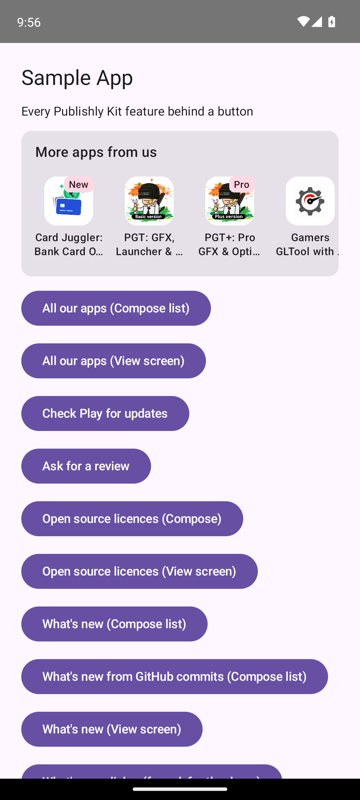
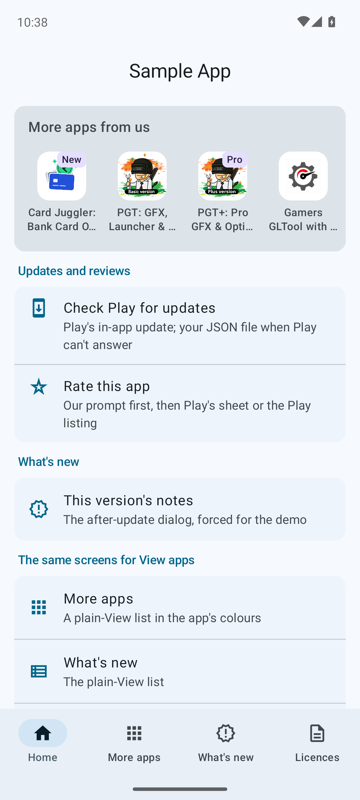
Sample app: Material You with dynamic colour, bottom navigation and grouped rows

diff --git a/sample/src/main/java/inc/trilokia/publishly/kit/sample/MainActivity.kt b/sample/src/main/java/inc/trilokia/publishly/kit/sample/MainActivity.kt
@@ -5,34 +5,61 @@ import android.widget.Toast
 import androidx.activity.ComponentActivity
 import androidx.activity.compose.BackHandler
 import androidx.activity.compose.setContent
-import androidx.compose.foundation.isSystemInDarkTheme
+import androidx.activity.enableEdgeToEdge
+import androidx.compose.foundation.clickable
 import androidx.compose.foundation.layout.Arrangement
 import androidx.compose.foundation.layout.Column
+import androidx.compose.foundation.layout.PaddingValues
 import androidx.compose.foundation.layout.fillMaxSize
 import androidx.compose.foundation.layout.fillMaxWidth
 import androidx.compose.foundation.layout.padding
-import androidx.compose.foundation.rememberScrollState
-import androidx.compose.foundation.verticalScroll
-import androidx.compose.material3.Button
-import androidx.compose.material3.darkColorScheme
-import androidx.compose.material3.lightColorScheme
+import androidx.compose.foundation.lazy.LazyColumn
+import androidx.compose.material.icons.Icons
+import androidx.compose.material.icons.filled.Apps
+import androidx.compose.material.icons.filled.Description
+import androidx.compose.material.icons.filled.Home
+import androidx.compose.material.icons.filled.NewReleases
+import androidx.compose.material.icons.outlined.Apps
+import androidx.compose.material.icons.outlined.Description
+import androidx.compose.material.icons.outlined.Home
+import androidx.compose.material.icons.outlined.NewReleases
+import androidx.compose.material.icons.outlined.StarRate
+import androidx.compose.material.icons.outlined.SystemUpdate
+import androidx.compose.material.icons.automirrored.outlined.ViewList
+import androidx.compose.material3.Card
+import androidx.compose.material3.CardDefaults
+import androidx.compose.material3.CenterAlignedTopAppBar
+import androidx.compose.material3.ExperimentalMaterial3Api
+import androidx.compose.material3.HorizontalDivider
+import androidx.compose.material3.Icon
+import androidx.compose.material3.ListItem
+import androidx.compose.material3.ListItemDefaults
 import androidx.compose.material3.MaterialTheme
+import androidx.compose.material3.NavigationBar
+import androidx.compose.material3.NavigationBarItem
 import androidx.compose.material3.Scaffold
+import androidx.compose.material3.SegmentedButton
+import androidx.compose.material3.SegmentedButtonDefaults
+import androidx.compose.material3.SingleChoiceSegmentedButtonRow
 import androidx.compose.material3.Text
+import androidx.compose.material3.TopAppBarDefaults
 import androidx.compose.runtime.Composable
 import androidx.compose.runtime.getValue
+import androidx.compose.runtime.mutableIntStateOf
 import androidx.compose.runtime.mutableStateOf
-import androidx.compose.runtime.rememberCoroutineScope
 import androidx.compose.runtime.remember
+import androidx.compose.runtime.rememberCoroutineScope
+import androidx.compose.runtime.saveable.rememberSaveable
 import androidx.compose.runtime.setValue
 import androidx.compose.ui.Modifier
+import androidx.compose.ui.graphics.Color
+import androidx.compose.ui.graphics.vector.ImageVector
 import androidx.compose.ui.unit.dp
 import inc.trilokia.publishly.kit.compose.FeaturedPromoDialog
 import inc.trilokia.publishly.kit.compose.MoreAppsList
 import inc.trilokia.publishly.kit.compose.MoreAppsRow
 import inc.trilokia.publishly.kit.compose.OpenSourceScreen
 import inc.trilokia.publishly.kit.compose.ReviewPromptDialog
-import inc.trilokia.publishly.kit.compose.SyncKitTheme
 import inc.trilokia.publishly.kit.compose.UpdateFlow
 import inc.trilokia.publishly.kit.compose.UpdateReadyBar
 import inc.trilokia.publishly.kit.compose.WhatsNewDialog
@@ -45,13 +72,24 @@ import inc.trilokia.publishly.kit.whatsnew.WhatsNew
 import inc.trilokia.publishly.kit.whatsnew.WhatsNewSource
 import kotlinx.coroutines.launch
 
-/** Every feature of the library on one screen. */
+/**
+ * Every feature of the library in one Material You app, laid out the Now in Android way: a top
+ * app bar, bottom navigation between Home, More apps, What's new and Licences, and grouped list
+ * rows on Home for the actions.
+ */
 class MainActivity : ComponentActivity() {
     private lateinit var updates: Updates
 
-    private enum class Page { HOME, LICENCES, MORE_APPS, WHATS_NEW_PLAY, WHATS_NEW_GITHUB }
+    private enum class Tab(val label: String, val icon: ImageVector, val selectedIcon: ImageVector) {
+        HOME("Home", Icons.Outlined.Home, Icons.Filled.Home),
+        APPS("More apps", Icons.Outlined.Apps, Icons.Filled.Apps),
+        NEWS("What's new", Icons.Outlined.NewReleases, Icons.Filled.NewReleases),
+        LICENCES("Licences", Icons.Outlined.Description, Icons.Filled.Description),
+    }
 
+    @OptIn(ExperimentalMaterial3Api::class)
     override fun onCreate(savedInstanceState: Bundle?) {
+        enableEdgeToEdge()
         super.onCreate(savedInstanceState)
 
         // The whole update flow: Play first, the JSON file when Play can't answer. Built here because
@@ -68,18 +106,16 @@ class MainActivity : ComponentActivity() {
             url = "https://www.trilokiainc.com/apps.json",
             bundledJson = asset("apps.json"),
         )
-
         // "What's new": sample release notes shipped in assets/ (a real app uses WhatsNewSource.Play(packageName)
         // or a JSON file on its server), plus a public GitHub repo's commits to show that source
         val whatsNew = WhatsNew(this, WhatsNewSource.Bundled(asset("release-notes.json")))
         val whatsNewGitHub = WhatsNew(this, WhatsNewSource.GitHubCommits("mikepenz", "AboutLibraries"))
 
         setContent {
-            MaterialTheme(colorScheme = if (isSystemInDarkTheme()) darkColorScheme() else lightColorScheme()) {
-                // The View screens and dialogs take this MaterialTheme's colours, light or dark
-                SyncKitTheme()
-                var page by remember { mutableStateOf(Page.HOME) }
-                BackHandler(enabled = page != Page.HOME) { page = Page.HOME }
+            SampleTheme {
+                var tab by rememberSaveable { mutableStateOf(Tab.HOME) }
+                BackHandler(enabled = tab != Tab.HOME) { tab = Tab.HOME }
+                val scope = rememberCoroutineScope()
 
                 // Dialogs take turns: the update flow first, then the featured app
                 var updatesSettled by remember { mutableStateOf(false) }
@@ -91,31 +127,46 @@ class MainActivity : ComponentActivity() {
                 ReviewPromptDialog(reviewAsk)
 
                 Scaffold(
-                    bottomBar = { UpdateReadyBar(updates) },
+                    topBar = {
+                        CenterAlignedTopAppBar(
+                            title = { Text(if (tab == Tab.HOME) "Sample App" else tab.label) },
+                            colors = TopAppBarDefaults.topAppBarColors(containerColor = Color.Transparent),
+                        )
+                    },
+                    bottomBar = {
+                        Column {
+                            UpdateReadyBar(updates)
+                            NavigationBar {
+                                Tab.entries.forEach { t ->
+                                    NavigationBarItem(
+                                        selected = tab == t,
+                                        onClick = { tab = t },
+                                        icon = { Icon(if (tab == t) t.selectedIcon else t.icon, contentDescription = null) },
+                                        label = { Text(t.label) },
+                                    )
+                                }
+                            }
+                        }
+                    },
                 ) { padding ->
-                    when (page) {
-                        Page.LICENCES -> OpenSourceScreen(Modifier.padding(padding))
-                        Page.MORE_APPS -> MoreAppsList(promos, Modifier.padding(padding))
-                        Page.WHATS_NEW_PLAY -> WhatsNewList(whatsNew, Modifier.padding(padding))
-                        Page.WHATS_NEW_GITHUB -> WhatsNewList(whatsNewGitHub, Modifier.padding(padding))
-                        Page.HOME -> Demo(
-                            modifier = Modifier.padding(padding),
+                    when (tab) {
+                        Tab.HOME -> HomeScreen(
+                            padding = padding,
                             promos = promos,
-                            onMoreAppsCompose = { page = Page.MORE_APPS },
-                            onMoreAppsView = { promos.openList(this@MainActivity) },
-                            onLicencesCompose = { page = Page.LICENCES },
-                            onLicencesView = { OpenSource.open(this@MainActivity) },
-                            onWhatsNewPlay = { page = Page.WHATS_NEW_PLAY },
-                            onWhatsNewGitHub = { page = Page.WHATS_NEW_GITHUB },
-                            onWhatsNewView = { whatsNew.openList(this@MainActivity) },
-                            // Forced for the demo: this version's notes (after a real update, pending() picks them)
-                            onWhatsNewDialog = { whatsNew.showDialog(this@MainActivity, whatsNew.notes().take(1)) },
                             onCheckUpdate = { updates.play.checkNow { toast("Play update: $it") } },
                             onReview = {
                                 reviewAsk.recordEvent()
                                 reviewAsk.requestIfDue()
                             },
+                            // Forced for the demo: this version's notes (after a real update, pending() picks them)
+                            onWhatsNewDialog = { scope.launch { whatsNew.showDialog(this@MainActivity, whatsNew.notes().take(1)) } },
+                            onMoreAppsView = { promos.openList(this@MainActivity) },
+                            onWhatsNewView = { whatsNew.openList(this@MainActivity) },
+                            onLicencesView = { OpenSource.open(this@MainActivity) },
                         )
+                        Tab.APPS -> MoreAppsList(promos, Modifier.padding(padding))
+                        Tab.NEWS -> WhatsNewScreen(padding, whatsNew, whatsNewGitHub)
+                        Tab.LICENCES -> OpenSourceScreen(Modifier.padding(padding))
                     }
                 }
             }
@@ -128,38 +179,93 @@ class MainActivity : ComponentActivity() {
 }
 
 @Composable
-private fun Demo(
-    modifier: Modifier,
+private fun HomeScreen(
+    padding: PaddingValues,
     promos: AppPromos,
-    onMoreAppsCompose: () -> Unit,
-    onMoreAppsView: () -> Unit,
-    onLicencesCompose: () -> Unit,
-    onLicencesView: () -> Unit,
-    onWhatsNewPlay: () -> Unit,
-    onWhatsNewGitHub: () -> Unit,
-    onWhatsNewView: () -> Unit,
-    onWhatsNewDialog: suspend () -> Unit,
     onCheckUpdate: () -> Unit,
     onReview: () -> Unit,
+    onWhatsNewDialog: () -> Unit,
+    onMoreAppsView: () -> Unit,
+    onWhatsNewView: () -> Unit,
+    onLicencesView: () -> Unit,
 ) {
-    val scope = rememberCoroutineScope()
-    Column(
-        modifier = modifier.fillMaxSize().verticalScroll(rememberScrollState()).padding(24.dp),
+    LazyColumn(
+        modifier = Modifier.fillMaxSize(),
+        contentPadding = PaddingValues(
+            start = 16.dp, end = 16.dp,
+            top = padding.calculateTopPadding() + 8.dp,
+            bottom = padding.calculateBottomPadding() + 16.dp,
+        ),
         verticalArrangement = Arrangement.spacedBy(12.dp),
     ) {
-        Text("Sample App", style = MaterialTheme.typography.headlineSmall)
-        Text("Every Publishly Kit feature behind a button", style = MaterialTheme.typography.bodyMedium)
         // The own-apps row: from the JSON feed, minus whatever this phone already has
-        MoreAppsRow(promos, Modifier.fillMaxWidth())
-        Button(onClick = onMoreAppsCompose) { Text("All our apps (Compose list)") }
-        Button(onClick = onMoreAppsView) { Text("All our apps (View screen)") }
-        Button(onClick = onCheckUpdate) { Text("Check Play for updates") }
-        Button(onClick = onReview) { Text("Ask for a review") }
-        Button(onClick = onLicencesCompose) { Text("Open source licences (Compose)") }
-        Button(onClick = onLicencesView) { Text("Open source licences (View screen)") }
-        Button(onClick = onWhatsNewPlay) { Text("What's new (Compose list)") }
-        Button(onClick = onWhatsNewGitHub) { Text("What's new from GitHub commits (Compose list)") }
-        Button(onClick = onWhatsNewView) { Text("What's new (View screen)") }
-        Button(onClick = { scope.launch { onWhatsNewDialog() } }) { Text("What's new dialog (forced, for the demo)") }
+        item { MoreAppsRow(promos, Modifier.fillMaxWidth()) }
+        item {
+            Section("Updates and reviews") {
+                ActionRow(Icons.Outlined.SystemUpdate, "Check Play for updates", "Play's in-app update; your JSON file when Play can't answer", onCheckUpdate)
+                HorizontalDivider()
+                ActionRow(Icons.Outlined.StarRate, "Rate this app", "Our prompt first, then Play's sheet or the Play listing", onReview)
+            }
+        }
+        item {
+            Section("What's new") {
+                ActionRow(Icons.Outlined.NewReleases, "This version's notes", "The after-update dialog, forced for the demo", onWhatsNewDialog)
+            }
+        }
+        item {
+            Section("The same screens for View apps") {
+                ActionRow(Icons.Outlined.Apps, "More apps", "A plain-View list in the app's colours", onMoreAppsView)
+                HorizontalDivider()
+                ActionRow(Icons.AutoMirrored.Outlined.ViewList, "What's new", "The plain-View list", onWhatsNewView)
+                HorizontalDivider()
+                ActionRow(Icons.Outlined.Description, "Open source licences", "The plain-View list", onLicencesView)
+            }
+        }
+    }
+}
+
+/** A titled group of rows on one tonal card, the way settings screens group their items. */
+@Composable
+private fun Section(title: String, rows: @Composable () -> Unit) {
+    Column(verticalArrangement = Arrangement.spacedBy(8.dp)) {
+        Text(
+            title,
+            style = MaterialTheme.typography.titleSmall,
+            color = MaterialTheme.colorScheme.primary,
+            modifier = Modifier.padding(start = 4.dp),
+        )
+        Card(colors = CardDefaults.cardColors(containerColor = MaterialTheme.colorScheme.surfaceContainerLow)) {
+            rows()
+        }
+    }
+}
+
+@Composable
+private fun ActionRow(icon: ImageVector, title: String, detail: String, onClick: () -> Unit) {
+    ListItem(
+        modifier = Modifier.clickable(onClick = onClick),
+        leadingContent = { Icon(icon, contentDescription = null, tint = MaterialTheme.colorScheme.primary) },
+        headlineContent = { Text(title) },
+        supportingContent = { Text(detail) },
+        colors = ListItemDefaults.colors(containerColor = Color.Transparent),
+    )
+}
+
+/** The What's new tab: this app's own notes, or a GitHub repo's commits to show that source. */
+@OptIn(ExperimentalMaterial3Api::class)
+@Composable
+private fun WhatsNewScreen(padding: PaddingValues, own: WhatsNew, gitHub: WhatsNew) {
+    var source by rememberSaveable { mutableIntStateOf(0) }
+    Column(Modifier.padding(padding)) {
+        SingleChoiceSegmentedButtonRow(Modifier.fillMaxWidth().padding(horizontal = 16.dp, vertical = 8.dp)) {
+            listOf("This app", "GitHub commits").forEachIndexed { i, label ->
+                SegmentedButton(
+                    selected = source == i,
+                    onClick = { source = i },
+                    shape = SegmentedButtonDefaults.itemShape(index = i, count = 2),
+                ) { Text(label) }
+            }
+        }
+        WhatsNewList(if (source == 0) own else gitHub, Modifier.fillMaxSize())
     }
 }

diff --git a/sample/src/main/java/inc/trilokia/publishly/kit/sample/SampleTheme.kt b/sample/src/main/java/inc/trilokia/publishly/kit/sample/SampleTheme.kt
@@ -1,0 +1,73 @@
+package inc.trilokia.publishly.kit.sample
+
+import android.os.Build
+import androidx.compose.foundation.isSystemInDarkTheme
+import androidx.compose.material3.MaterialTheme
+import androidx.compose.material3.darkColorScheme
+import androidx.compose.material3.dynamicDarkColorScheme
+import androidx.compose.material3.dynamicLightColorScheme
+import androidx.compose.material3.lightColorScheme
+import androidx.compose.runtime.Composable
+import androidx.compose.ui.graphics.Color
+import androidx.compose.ui.platform.LocalContext
+import inc.trilokia.publishly.kit.compose.SyncKitTheme
+
+/**
+ * Material You, the way Now in Android does it: the wallpaper's colours (dynamic colour) on
+ * Android 12 and up, a branded scheme on older phones, light and dark. Everything Publishly Kit
+ * draws follows it: the Compose elements through MaterialTheme, the plain-View screens and
+ * dialogs through [SyncKitTheme].
+ */
+@Composable
+fun SampleTheme(darkTheme: Boolean = isSystemInDarkTheme(), content: @Composable () -> Unit) {
+    val context = LocalContext.current
+    val colorScheme = when {
+        Build.VERSION.SDK_INT >= Build.VERSION_CODES.S ->
+            if (darkTheme) dynamicDarkColorScheme(context) else dynamicLightColorScheme(context)
+        darkTheme -> DarkColors
+        else -> LightColors
+    }
+    MaterialTheme(colorScheme = colorScheme) {
+        SyncKitTheme()
+        content()
+    }
+}
+
+// The branded fallback, a teal built with the Material colour tool; the rest of the scheme is Material 3's
+private val LightColors = lightColorScheme(
+    primary = Color(0xFF006A60),
+    onPrimary = Color(0xFFFFFFFF),
+    primaryContainer = Color(0xFF74F8E5),
+    onPrimaryContainer = Color(0xFF00201C),
+    secondary = Color(0xFF4A635F),
+    onSecondary = Color(0xFFFFFFFF),
+    secondaryContainer = Color(0xFFCCE8E2),
+    onSecondaryContainer = Color(0xFF05201C),
+    tertiary = Color(0xFF456179),
+    onTertiary = Color(0xFFFFFFFF),
+    tertiaryContainer = Color(0xFFCCE5FF),
+    onTertiaryContainer = Color(0xFF001E31),
+    background = Color(0xFFFAFDFA),
+    onBackground = Color(0xFF191C1B),
+    surface = Color(0xFFFAFDFA),
+    onSurface = Color(0xFF191C1B),
+)
+
+private val DarkColors = darkColorScheme(
+    primary = Color(0xFF53DBC9),
+    onPrimary = Color(0xFF003731),
+    primaryContainer = Color(0xFF005048),
+    onPrimaryContainer = Color(0xFF74F8E5),
+    secondary = Color(0xFFB1CCC6),
+    onSecondary = Color(0xFF1C3531),
+    secondaryContainer = Color(0xFF334B47),
+    onSecondaryContainer = Color(0xFFCCE8E2),
+    tertiary = Color(0xFFADCAE6),
+    onTertiary = Color(0xFF153349),
+    tertiaryContainer = Color(0xFF2D4961),
+    onTertiaryContainer = Color(0xFFCCE5FF),
+    background = Color(0xFF191C1B),
+    onBackground = Color(0xFFE0E3E1),
+    surface = Color(0xFF191C1B),
+    onSurface = Color(0xFFE0E3E1),
+)
